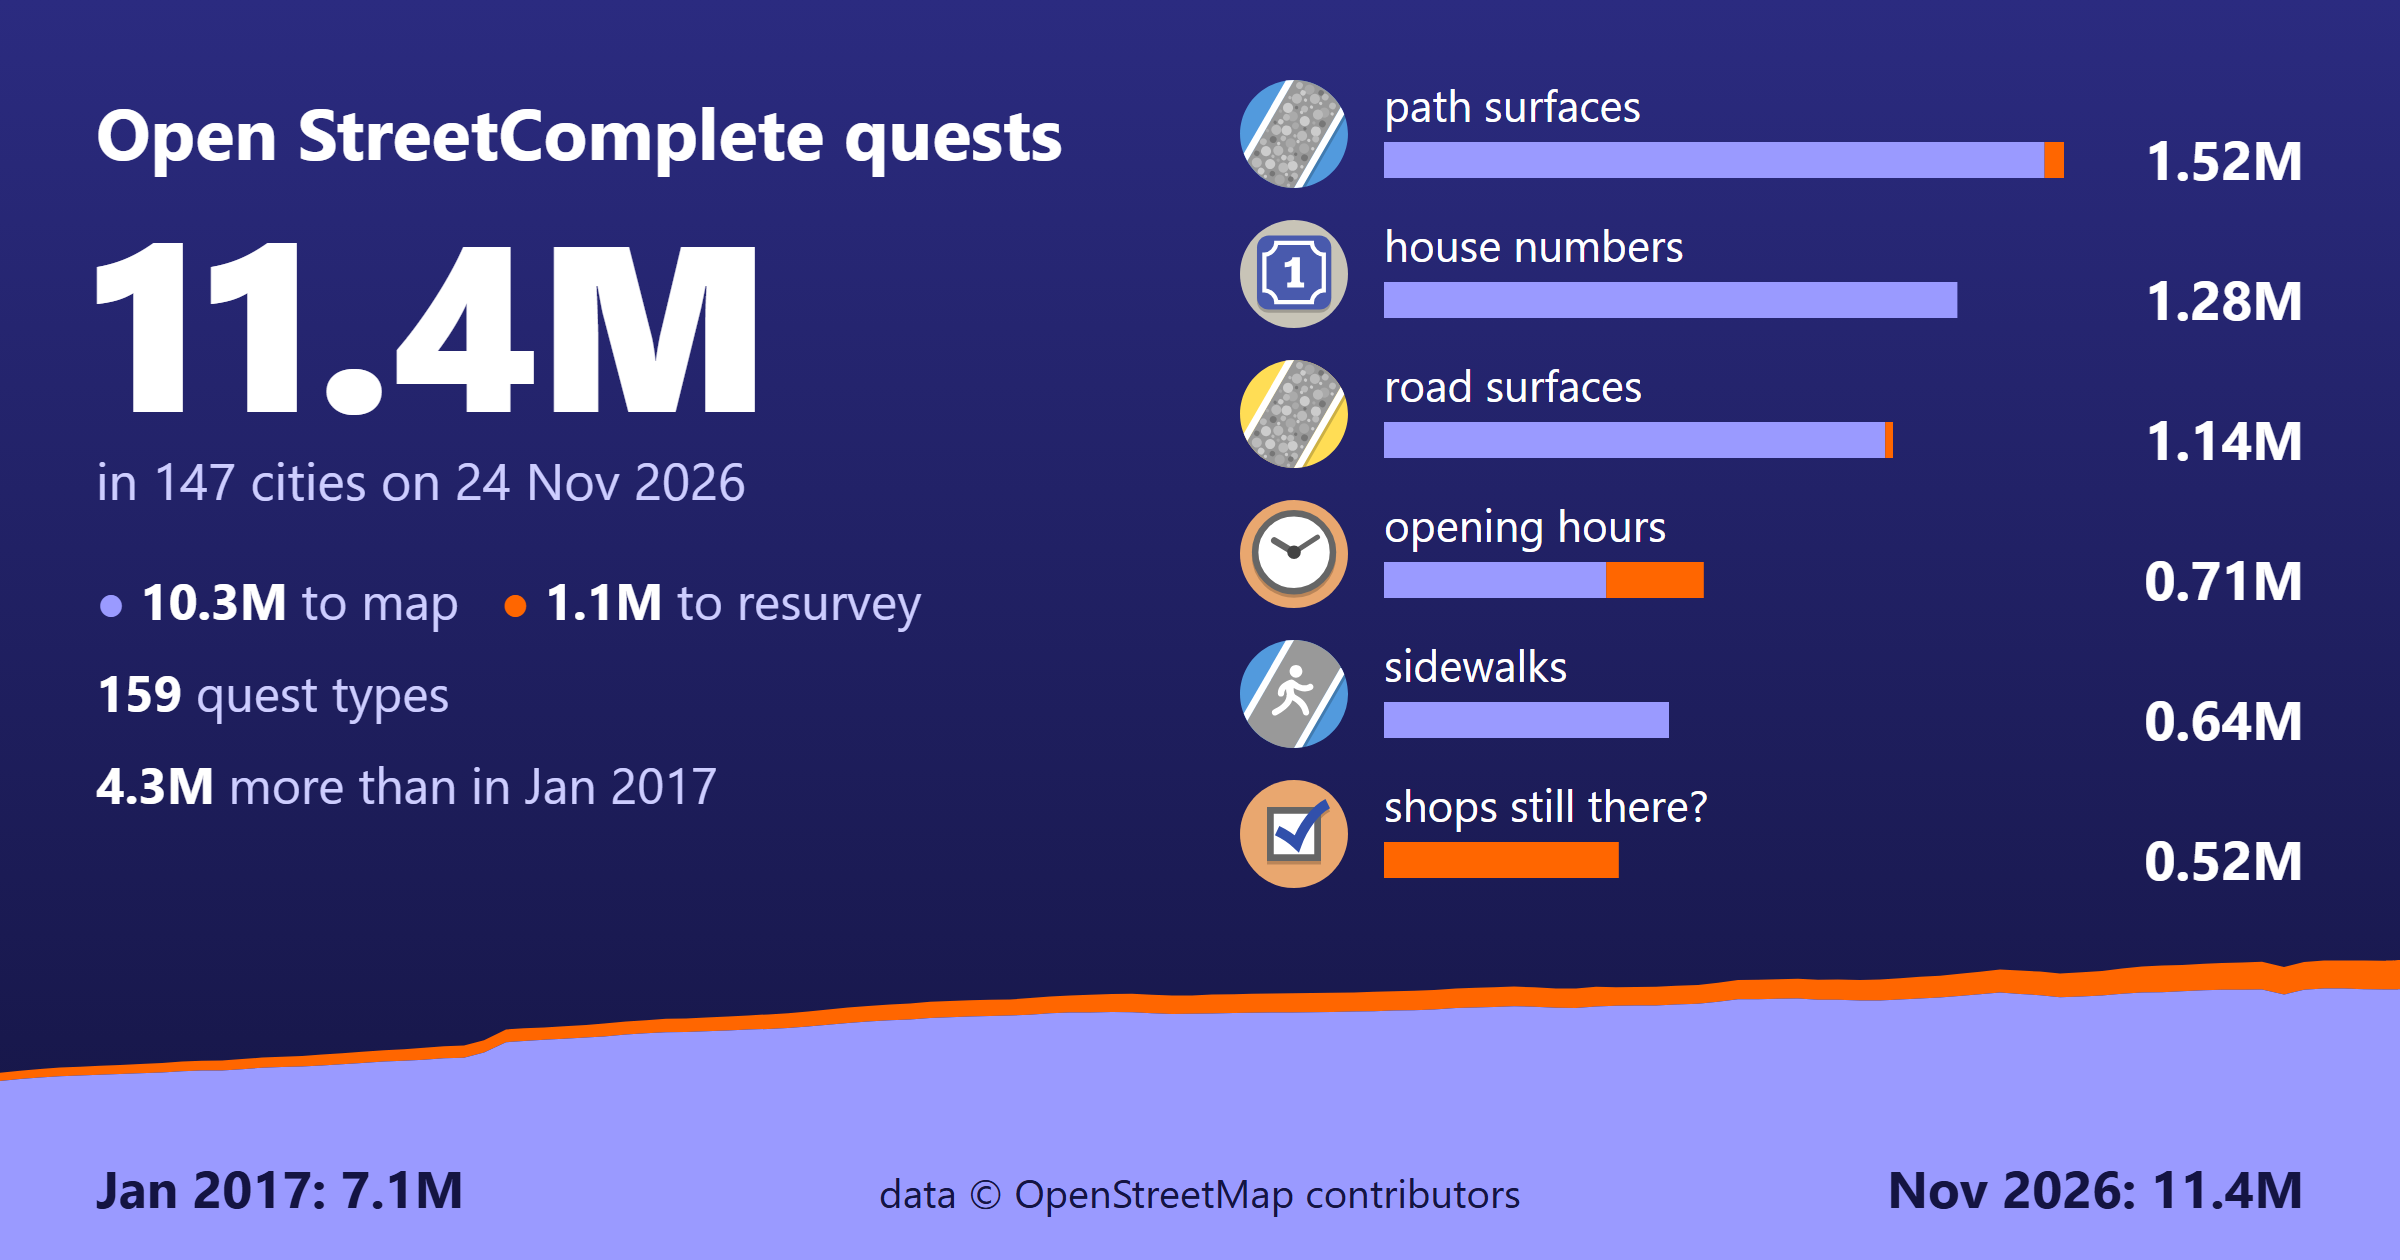
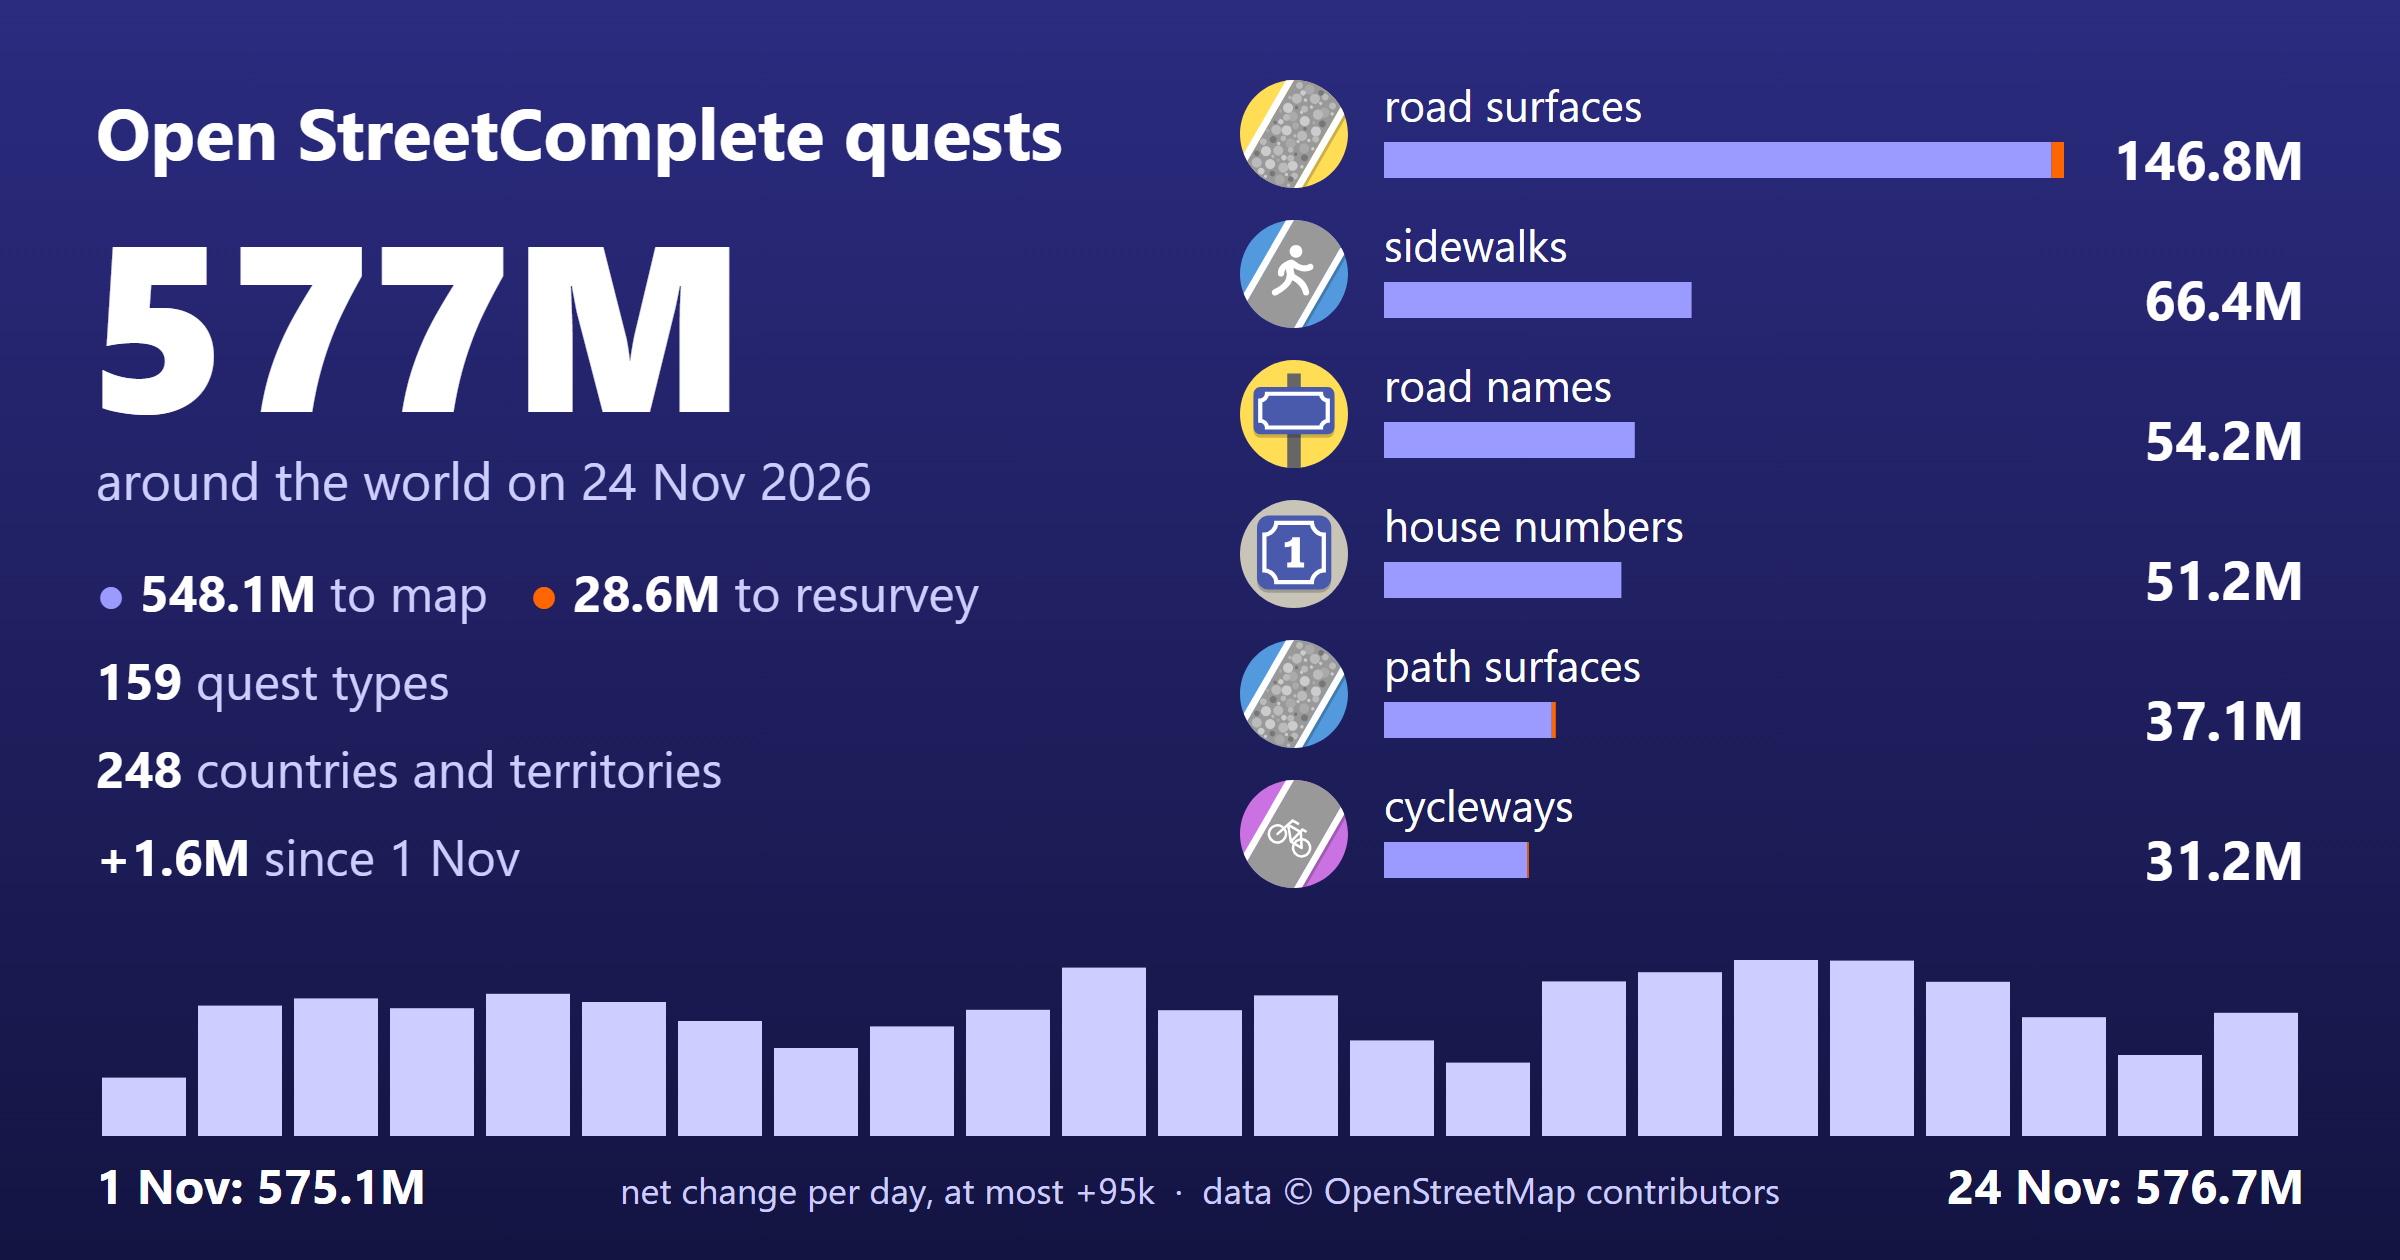
Design: the card shows the world, with its overlaps measured; handoff

diff --git a/design/project_card.py b/design/project_card.py
@@ -1,59 +1,74 @@
-"""Write design/project-card.svg: one 1200x630 card for the project, from docs/data. An illustration; nothing reads it.
+"""Write design/project-card.svg: one 1200x630 card for the project, the whole world. An illustration; nothing reads it.
 
-Quests on by default, summed over the counted cities on the last date all of them have. Orange is resurvey. The hills
-are the same sum on every date all of them have, from zero. Standard library only; the PNG beside it is a screenshot.
+Reads the published files on sc-data (latest.json, children/world.json and the 248 country and dependency files).
+Quests on by default, summed over countries and dependencies: their land outlines (the ones the world run counts in)
+overlap by about 2,000 km2 in all, 1,867 of it the icefield of CL and AR (2026-11-25), so each place counts once as
+far as a rounded number shows. Orange is resurvey. The bars are that sum's net change on each day after `first`.
+Standard library only; the PNG beside it is a screenshot.
 """
 import json
 import re
+import urllib.request
 from collections import Counter
-from datetime import date
+from concurrent.futures import ThreadPoolExecutor
+from datetime import date, timedelta
 from pathlib import Path
 
 ROOT = Path(__file__).resolve().parents[1]
-DATA = ROOT / "docs" / "data"
 OUT = ROOT / "design" / "project-card.svg"
+HOST = "https://sc-data.comentality.com/"
 W, H = 1200, 630
 LAV, ORANGE, SOFT, INK = "#9a9aff", "#ff6600", "#cdcdff", "#141442"
 # short labels for the types that may lead; a new leader stops the script rather than going unnamed
-LABELS = {"AddPathSurface": "path surfaces", "AddHousenumber": "house numbers", "AddRoadSurface": "road surfaces",
-          "AddOpeningHours": "opening hours", "AddSidewalk": "sidewalks", "CheckShopExistence": "shops still there?",
-          "AddCycleway": "cycleways", "AddTactilePavingCrosswalk": "tactile paving"}
+LABELS = {"AddRoadSurface": "road surfaces", "AddSidewalk": "sidewalks", "AddRoadName": "road names",
+          "AddHousenumber": "house numbers", "AddPathSurface": "path surfaces", "AddCycleway": "cycleways",
+          "AddTracktype": "track types", "AddPowerPolesMaterial": "power pole materials"}
+
+
+def get(path, v=None):
+    request = urllib.request.Request(HOST + path + (f"?v={v}" if v else ""), headers={"User-Agent": "curl/8"})
+    return json.load(urllib.request.urlopen(request, timeout=60))
 
 
 def load(path):
     return json.loads(Path(path).read_text(encoding="utf-8"))
 
 
-def millions(n, places=1):
-    return f"{n / 1e6:.{places}f}M"
+def millions(n):
+    return f"{n / 1e6:.1f}M"
 
 
 def numbers():
-    cities = {c["id"]: c for c in load(DATA / "cities.json")["cities"]}
-    quests = [q["name"] for q in load(DATA / "quests.json")["quests"] if not q["defaultDisabled"]]
-    hist = {cid: load(DATA / "history" / f"{cid}.json") for cid in cities}
-    for cid, c in cities.items():       # the series must be the one the site prints
-        h = hist[cid]
-        last = sum(h["quests"][n]["open"][-1] for n in quests if n in h["quests"])
-        if last != c["open"]:
-            raise SystemExit(f"{cid}: history says {last}, cities.json {c['open']}")
-    dates = sorted(set.intersection(*(set(h["dates"]) for h in hist.values())))
-    totals, types, aged = [], Counter(), Counter()
-    for d in dates:
-        total = old = 0
-        for h in hist.values():
-            i = h["dates"].index(d)
-            for n in quests:
-                v = h["quests"].get(n)
-                if v is None:
-                    continue
-                total += v["open"][i]   # a None, not counted, stops the script here
-                old += v["agedOnly"][i]
-                if d == dates[-1]:
-                    types[n] += v["open"][i]
-                    aged[n] += v["agedOnly"][i]
-        totals.append((total, old))
-    return cities, dates, totals, types, aged
+    latest = get("latest.json")
+    v, first, last = latest["v"], date.fromisoformat(latest["first"]), date.fromisoformat(latest["date"])
+    if latest.get("questsFrom"):
+        raise SystemExit(f"quests not counted from the first day, so the bars would jump: {latest['questsFrom']}")
+    default = {q["name"] for q in load(ROOT / "docs" / "data" / "quests.json")["quests"] if not q["defaultDisabled"]}
+    table = get("children/world.json", v)
+    types, aged = Counter(), Counter()
+    for place in table["places"].values():
+        for i, x in place.items():
+            q = table["quests"][int(i)]
+            if q in default:
+                types[q] += x[0]
+                aged[q] += x[1]
+    with ThreadPoolExecutor(8) as pool:
+        files = list(pool.map(lambda i: get(f"place/{i[:2]}/{i}.json", v), table["places"]))
+    days = (last - first).days + 1
+    totals = [[0, 0] for _ in range(days)]
+    for f in files:
+        for q, points in f["quests"].items():
+            if q not in default:
+                continue
+            points = [p for p in points if p[0] < days]     # the page's clip rule
+            for n, (day, total, old) in enumerate(points):
+                until = points[n + 1][0] if n + 1 < len(points) else days
+                for k in range(day, until):
+                    totals[k][0] += total
+                    totals[k][1] += old
+    if (sum(types.values()), sum(aged.values())) != tuple(totals[-1]):
+        raise SystemExit(f"the table says {sum(types.values()), sum(aged.values())}, the series {totals[-1]}")
+    return len(files), first, last, totals, types, aged
 
 
 def t(x, y, s, size, fill="#fff", weight=400, anchor="start"):
@@ -76,29 +91,32 @@ def icon(name, x, y, size):
     return f'<svg x="{x:g}" y="{y:g}" width="{size}" height="{size}" viewBox="{box}">{body}</svg>'
 
 
-def hills(dates, totals, height):
-    first, last = date.fromisoformat(dates[0]), date.fromisoformat(dates[-1])
-    top = max(a for a, _ in totals)
-    xs = [(date.fromisoformat(s) - first).days / (last - first).days * W for s in dates]
-    up = [f"{x:.0f},{H - a / top * height:.1f}" for x, (a, _) in zip(xs, totals)]
-    low = [f"{x:.0f},{H - (a - g) / top * height:.1f}" for x, (a, g) in zip(xs, totals)]
-    return (f'<polygon fill="{ORANGE}" points="{" ".join(up + low[::-1])}"/>'
-            f'<polygon fill="{LAV}" points="{" ".join(low)} {W},{H} 0,{H}"/>')
+def bars(totals, base, height):
+    """The net change of each day after the first. From zero; a falling day stops the script, as it has no place here."""
+    net = [b[0] - a[0] for a, b in zip(totals, totals[1:])]
+    if min(net) < 0:
+        raise SystemExit(f"a day fell, and these bars only go up: {net}")
+    step = (W - 96) / len(net)
+    return max(net), "".join(
+        f'<rect x="{48 + k * step + 3:.1f}" y="{base - n / max(net) * height:.1f}" width="{step - 6:.1f}" '
+        f'height="{n / max(net) * height:.1f}" fill="{SOFT}"/>' for k, n in enumerate(net))
 
 
 def main():
-    cities, dates, totals, types, aged = numbers()
+    countries, first, last, totals, types, aged = numbers()
     total, old = totals[-1]
-    first, last = date.fromisoformat(dates[0]), date.fromisoformat(dates[-1])
-    big = millions(total)
+    change = total - totals[0][0]
+    day = lambda d: f"{d.day} {d:%b}"
     strong = lambda s: f'<tspan font-weight="700" fill="#fff">{s}</tspan>'
-    out = [hills(dates, totals, 150),
+    most, drawn = bars(totals, 568, 88)
+    out = [drawn,
            t(48, 80, "Open StreetComplete quests", 36, weight=700),
-           t(44, 206, big, 118, weight=800),
-           t(48, 250, f"in {len(cities)} cities on {last.day} {last:%b %Y}", 26, SOFT),
-           split(48, 310, total, old, 25),
-           t(48, 356, strong(sum(k > 0 for k in types.values())) + " quest types", 25, SOFT),
-           t(48, 402, strong(millions(total - totals[0][0])) + f" more than in {first:%b %Y}", 25, SOFT)]
+           t(44, 206, f"{total / 1e6:.0f}M", 118, weight=800),
+           t(48, 250, f"around the world on {day(last)} {last.year}", 26, SOFT),
+           split(48, 306, total, old, 25),
+           t(48, 350, strong(sum(k > 0 for k in types.values())) + " quest types", 25, SOFT),
+           t(48, 394, strong(f"{countries}") + " countries and territories", 25, SOFT),
+           t(48, 438, strong(("+" if change >= 0 else "−") + millions(abs(change))) + f" since {day(first)}", 25, SOFT)]
     top = types.most_common(6)
     for i, (q, k) in enumerate(top):
         x, y, full = 620, 40 + i * 70, 340
@@ -106,15 +124,17 @@ def main():
         out += [icon(q, x, y, 54), t(x + 72, y + 21, LABELS[q], 22),
                 f'<rect x="{x + 72}" y="{y + 31}" width="{w - g:.1f}" height="18" fill="{LAV}"/>'
                 f'<rect x="{x + 72 + w - g:.1f}" y="{y + 31}" width="{g:.1f}" height="18" fill="{ORANGE}"/>',
-                t(W - 48, y + 50, millions(k, 2), 27, weight=700, anchor="end")]
-    out += [t(48, 604, f"{first:%b %Y}: {millions(totals[0][0])}", 26, INK, 700),
-            t(W - 48, 604, f"{last:%b %Y}: {big}", 26, INK, 700, "end"),
-            t(W / 2, 604, "data © OpenStreetMap contributors", 20, INK, anchor="middle")]
+                t(W - 48, y + 50, millions(k), 27, weight=700, anchor="end")]
+    out += [t(48, 602, f"{day(first)}: {millions(totals[0][0])}", 24, "#fff", 700),
+            t(W - 48, 602, f"{day(last)}: {millions(total)}", 24, "#fff", 700, "end"),
+            t(W / 2, 602, f"net change per day, at most +{most / 1e3:.0f}k &#160;·&#160; data © OpenStreetMap contributors", 18, SOFT,
+              anchor="middle")]
     OUT.write_text(f'<svg viewBox="0 0 {W} {H}" xmlns="http://www.w3.org/2000/svg" font-family="Segoe UI, -apple-system, '
                    'Roboto, Helvetica, Arial, sans-serif"><defs><linearGradient id="bg" x1="0" y1="0" x2="0" y2="1">'
                    '<stop stop-color="#2b2b80"/><stop offset="1" stop-color="#141442"/></linearGradient></defs>'
                    f'<rect width="{W}" height="{H}" fill="url(#bg)"/>{"".join(out)}</svg>\n', encoding="utf-8", newline="\n")
-    print(dates[-1], totals[0], totals[-1], [(LABELS[q], k, aged[q]) for q, k in top])
+    print(last, countries, totals[0], totals[-1], [(LABELS[q], k, aged[q]) for q, k in top])
+    print("by day:", [b[0] - a[0] for a, b in zip(totals, totals[1:])])
 
 
 if __name__ == "__main__":

diff --git a/HANDOFF.md b/HANDOFF.md
@@ -861,14 +861,18 @@ its own static page or a Worker that rewrites the head; the state is in the quer
   cities (about 4,350); Latin, Cyrillic and Greek names; the general card for the rest; no rendering on demand at
   release. Also the owner's: what happens at the Workers limit, and the wording "Canada and Europe".
 
-### General card: one card, B and C combined (2026-11-25, 13:25; drawn, waiting on the owner)
+### General card: the world's numbers (2026-11-25, 13:31; drawn, waiting on the owner)
 
-- `design/project-card.svg` and `.png` (2400x1260), written by `design/project_card.py` from `docs/data`: 147 cities on
-  2026-11-24, 11,385,773 open, 1,110,434 resurvey, 159 types, the six largest types, the sum since 2017-01. The PNG is a
-  headless Edge screenshot, taken with no loop and no city run. Every city's sum is checked against `cities.json`.
-- **Owner, 11-24 and 11-25:** wants statistics on it; **no world map** ("world stock image"); B's and C's data together.
-  Mockups A, B and C are in git at `84057012` (removed since).
-- The 2017 figure is SC 64.0, the newest 64.1. Left out: the 576M world total (overlaps not measured).
+- `design/project-card.svg` and `.png` (2400x1260), written by `design/project_card.py` from the published files on
+  sc-data: 576,650,884 open on 2026-11-24 (28,599,114 resurvey), 159 types, 248 countries and dependencies, the six
+  largest types, +1,568,038 since 11-01, a bar per day for the net change. The table and the 248 series agree. The
+  PNG is a headless Edge screenshot, taken with no loop and no city run.
+- **Owner, 11-24 and 11-25:** statistics on it; **no world map** ("world stock image"); B's and C's data together;
+  **the world, not 147 cities**. The 147-city card is in git at `2b8ac4bb`, mockups A, B and C at `84057012`.
+- **The overlaps of the world total, measured:** the land outlines of the 248 (one each, 248 codes) overlap in 11 pairs,
+  about 1,993 km2, 1,867 of it CL and AR (the icefield), then HR and RS 108. So about 125 km2 elsewhere; its quests were not
+  counted. Rounded to a million the total stands. Gaps (land in no outline) not measured.
+- The first world day is 11-01, so the world has no 2017 line; the total from zero was a flat strip, hence daily bars.
 - An illustration so far: whether it becomes the general card of the share previews is the owner's call. Nothing on
   `share-previews` or in `docs/` changed.
 
